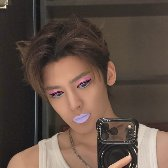
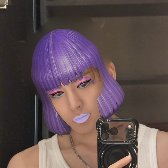
ArtPapi: jellyfish bob — fuller toward the ends, curled under, with partings
- Bell profile: from the temples the bob swells outward as it falls,
  fullest just above the ends, which curl back in under (rounder bottom).
- Splits (分缝): V-shaped partings between some clumps of the bangs and
  of the ends, open at the tips and closing a little way up, each its own
  length and width, shaded deep inside; loose strands keep out of them.
- Clump ridges continuous (no field steps between clumps: they shaded as
  dark specks). Mesh a touch coarser to keep the triangle count near before.
- The effect thumbnail now shows the wig (it was taken before it loaded).
- Dev viewer: ?views= for other angles.

Claude-Session: https://claude.ai/code/session_014Jf1Zz5VdAFUz4GXuR9DEp

Changed region(s): [[0.0893, 0.1488, 0.744, 0.8036], [0.5357, 0.4762, 0.5655, 0.506], [0.1786, 0.1786, 0.2083, 0.2083]]

diff --git a/src/lib/ar/wig.ts b/src/lib/ar/wig.ts
@@ -22,6 +22,10 @@ const smax = (a: number, b: number, k: number) => -smin(-a, -b, k)
 const ell = (x: number, y: number, z: number, rx: number, ry: number, rz: number) => (Math.hypot(x / rx, y / ry, z / rz) - 1) * Math.min(rx, ry, rz)
 const ell2 = (x: number, z: number, rx: number, rz: number) => (Math.hypot(x / rx, z / rz) - 1) * Math.min(rx, rz)
 const clamp01 = (v: number) => Math.min(1, Math.max(0, v))
+const sstep = (a: number, b: number, v: number) => {
+  const t = clamp01((v - a) / (b - a))
+  return t * t * (3 - 2 * t)
+}
 
 /** The head's centre line (front to back), rig z. */
 const HZ = -1.55
@@ -48,11 +52,12 @@ function clumpRidge(x: number, y: number, z: number) {
   // Round the head (angle), plus a slow twist down the length; clumps of
   // a few different widths.
   const a = Math.atan2(x, z - HZ)
-  let u = (a / (Math.PI * 2)) * 30 + 0.25 * Math.sin(y * 1.6 + a * 3)
+  const u = (a / (Math.PI * 2)) * 30 + 0.25 * Math.sin(y * 1.6 + a * 3)
   const i = Math.floor(u)
-  const w = 0.7 + 0.6 * hash(i)
-  u = Math.min(1, (u - i) * w + (1 - w) * 0.5)
-  return Math.sin(Math.PI * Math.min(1, Math.max(0, u)))
+  // (0 at both edges of every clump, so the field has no steps — a step
+  // between clumps of different widths shaded as dark specks — each clump
+  // rounder or sharper-crested than the next)
+  return Math.sin(Math.PI * (u - i)) ** (0.6 + 0.9 * hash(i))
 }
 /** How much a point is "bangs" (0..1), blended gently into the rest so
  *  the two clump patterns meet without a seam. */
@@ -64,11 +69,9 @@ const ridgeAt = (x: number, y: number, z: number) => {
 }
 /** The same across the bangs (they fall straight down the front). */
 function bangsRidge(x: number) {
-  let u = (x + 1) * 6
+  const u = (x + 1) * 6
   const i = Math.floor(u)
-  const w = 0.7 + 0.6 * hash(i + 91)
-  u = Math.min(1, Math.max(0, (u - i) * w + (1 - w) * 0.5))
-  return Math.sin(Math.PI * u)
+  return Math.sin(Math.PI * (u - i)) ** (0.6 + 0.9 * hash(i + 91))
 }
 
 /** The bangs' edge and the bob's hem (rig y): each clump a little longer
@@ -78,6 +81,47 @@ function bangsRidge(x: number) {
  *  just below the chin in front and to the nape at the back. */
 const bangsAt = (x: number) => 0.2 - 0.12 * Math.min(1, Math.abs(x) / 0.86) ** 2 + 0.035 * (1 - bangsRidge(x))
 const hemAt = (x: number, z: number) => -1.84 - 0.08 * clamp01(-(z - HZ) / 1.4) + 0.06 * (1 - clumpRidge(x, -1.8, z))
+// ---- Splits ------------------------------------------------------------------------
+//
+// The ends don't form one sheet: here and there, between two clumps, the
+// hair parts near its ends (分缝) — the bangs into a few pieces, the bob's
+// ends into locks — a V-shaped gap, open at the end and closing a little
+// way up, each its own length and width.
+
+/** How far inside a split a point is (> 0: inside — no hair there). */
+function splitAt(x: number, y: number, z: number) {
+  let s = -1
+  // Round the ends of the bob, between its clumps.
+  if (y < -1.15) {
+    const zc = z - HZ
+    const a = Math.atan2(x, zc)
+    const u = (a / (Math.PI * 2)) * 30 + 0.25 * Math.sin(y * 1.6 + a * 3)
+    const j = Math.round(u)
+    const jj = ((j % 30) + 30) % 30
+    if (hash(jj + 17) < 0.62) {
+      const len = 0.36 + 0.26 * hash(jj + 33)
+      const w = 0.055 + 0.04 * hash(jj + 51)
+      // (opening wide soon after it starts: the ends turn under, so the
+      // part that shows is well above the very tips)
+      const t = clamp01((hemAt(x, z) + len - y) / len) ** 0.6
+      if (t > 0) s = Math.max(s, w * t - (Math.abs(u - j) * Math.PI * 2 * Math.hypot(x, zc)) / 30)
+    }
+  }
+  // Across the bangs, between theirs.
+  if (z > -1.0 && y > -0.2 && y < 0.8) {
+    const j = Math.round((x + 1) * 6)
+    if (j >= 1 && j <= 11 && hash(j + 7) < 0.62) {
+      const len = 0.16 + 0.22 * hash(j + 61)
+      const w = 0.04 + 0.03 * hash(j + 23)
+      const t = clamp01((bangsAt(j / 6 - 1) + len - y) / len)
+      // (leaning a little, as a parting does)
+      const xb = j / 6 - 1 + (hash(j + 3) - 0.5) * 0.12 * t
+      if (t > 0) s = Math.max(s, w * t - Math.abs(x - xb))
+    }
+  }
+  return s
+}
+
 /** Half the face opening's width at height y: close round the face — the
  *  side hair hugs the cheeks and comes in over the jaw. */
 const openingHalf = (y: number) => 0.86 - 0.04 * clamp01((0.2 - y) / 0.8) - 0.15 * clamp01((-0.6 - y) / 1.0) ** 1.2
@@ -91,12 +135,15 @@ export function wigSdf(x: number, y: number, z: number) {
 function wigParts(x: number, y: number, z: number) {
   const ax = Math.abs(x)
   const zc = z - HZ
-  // The outside: a rounded crown flowing into a full bob — widest by the
-  // cheeks, then curving in toward the ends, which turn under (内扣).
+  // The outside: a rounded crown over a bell, like a jellyfish — from the
+  // temples the hair swells outward as it falls (its volume), fullest just
+  // above the ends, and there the ends curl back in under (内扣), the bottom
+  // edge rounded off like a turned-under lip.
   const dome = ell(ax, y - 0.4, zc, 1.26, 1.45, 1.55)
-  const rx = 1.22 + 0.12 * Math.exp(-(((y + 0.75) / 0.6) ** 2)) - 0.32 * clamp01((-0.95 - y) / 0.95) ** 1.6
-  const side = ell2(ax, zc, rx, rx * 1.18)
-  const body = smax(smax(side, y - 0.55, 0.3), hemAt(x, z) - y, 0.3)
+  const rx = 1.2 + 0.38 * sstep(0.1, -1.4, y) - 0.36 * clamp01((-1.48 - y) / 0.4) ** 1.7
+  // (front to back it swells a little less: the ends hang round the neck)
+  const side = ell2(ax, zc, rx, 1.42 + (rx - 1.2) * 0.85)
+  const body = smax(smax(side, y - 0.55, 0.3), hemAt(x, z) - y, 0.36)
   let outer = smin(dome, body, 0.5)
   // Grooves between clumps: deepest down the sides and back, finer over
   // the crown, where the hair lies close; across the bangs, their own.
@@ -118,7 +165,9 @@ function wigParts(x: number, y: number, z: number) {
   const half = openingHalf(y)
   // (its top corners rounded: the bangs blend into the sides)
   const opening = Math.max(smax(ax - half, y - bangsAt(x), 0.12), -(z + 0.9))
-  return { d: smax(shell, -opening, 0.025), cut: -opening - shell }
+  const d = smax(shell, -opening, 0.025)
+  const split = splitAt(x, y, z)
+  return { d: split > -0.05 ? smax(d, split, 0.012) : d, cut: -opening - shell }
 }
 
 export interface WigData {
@@ -140,7 +189,7 @@ export function computeWig(): WigData {
   // (a coarse grid is plenty: the strands are in the texture, not the
   // mesh, and fewer triangles keep live frames quick)
   // (fine enough for the clumps' grooves: several cells across each)
-  const { pos, index } = surfaceNets(wigSdf, { x: -1.75, y: -2.15, z: -3.45 }, { x: 1.75, y: 2.3, z: 0.45 }, 0.039)
+  const { pos, index } = surfaceNets(wigSdf, { x: -1.85, y: -2.15, z: -3.5 }, { x: 1.85, y: 2.3, z: 0.45 }, 0.044)
   const n = pos.length / 3
   const flow = new Float32Array(n * 3)
   const nrm = new Float32Array(n * 3)
@@ -181,7 +230,8 @@ export function computeWig(): WigData {
     // The grooves between clumps in shade, the crests catching light: what
     // makes the clumps read.
     const ridge = ridgeAt(x, y, z)
-    const groove = 0.8 + 0.2 * ridge
+    // (and deepest inside a split, between two locks)
+    const groove = (0.8 + 0.2 * ridge) * (1 - 0.5 * clamp01((splitAt(x, y, z) + 0.05) / 0.05))
     // The part shows a line of scalp.
     const partLine = 0.6 * Math.exp(-((x / 0.025) ** 2)) * clamp01((y - 1.3) / 0.3) * clamp01((z + 2.1) / 0.4) * clamp01((-0.6 - z) / 0.3)
     col.set(c.map((v, k) => v * under * wall * rim * groove * (1 - partLine) + scalp[k] * partLine), i * 3)
@@ -413,6 +463,9 @@ function wispGeometry() {
   for (let x = -0.88; x <= 0.88; x += 0.042) {
     const xx = x + (rnd() - 0.5) * 0.01
     const y = bangsAt(xx) + 0.07
+    // Strands come in with their clump: none in a split or the groove
+    // between two (they'd fill it back in).
+    if (splitAt(xx, y - 0.04, 0) > -0.035 || bangsRidge(xx) < 0.3) continue
     const p = hit(new THREE.Vector3(xx, y, 1.2), new THREE.Vector3(0, 0, -1))
     if (!p) continue
     const len = 0.08 + rnd() * 0.07
@@ -428,9 +481,10 @@ function wispGeometry() {
     const p = hit(from, dir.clone().negate())
     if (!p) continue
     if (p.z > -0.95 && Math.abs(p.x) < 0.9) continue
-    const len = 0.14 + rnd() * 0.12
-    // (curving in a touch under the bob's turned-in ends)
-    card(p, new THREE.Vector3(0, -1, 0).addScaledVector(dir, -0.3).normalize(), new THREE.Vector3(dir.z, 0, -dir.x), dir, 0.09, len)
+    if (splitAt(p.x, p.y - 0.03, p.z) > -0.035 || clumpRidge(p.x, p.y, p.z) < 0.3) continue
+    const len = 0.12 + rnd() * 0.12
+    // (curving in under the bob's turned-in ends)
+    card(p, new THREE.Vector3(0, -1, 0).addScaledVector(dir, -0.5).normalize(), new THREE.Vector3(dir.z, 0, -dir.x), dir, 0.09, len)
   }
   const g = new THREE.BufferGeometry()
   g.setAttribute('position', new THREE.Float32BufferAttribute(pos, 3))

diff --git a/src/eyewear.ts b/src/eyewear.ts
@@ -21,7 +21,9 @@ glasses.position.set(0, 0, 0)
 const pivot = new THREE.Group(); pivot.add(glasses); scene.add(pivot)
 const big = q.get('id') === 'lavender'
 const cam = big ? new THREE.OrthographicCamera(-2.4, 2.4, 2.3, -2.4, -50, 50) : new THREE.OrthographicCamera(-1.6, 1.6, 1.15, -1.15, -50, 50); cam.position.set(0, 0, 10)
-;[[0, 0], [0.75, 0.15], [big ? 2.6 : 1.45, 0.05]].forEach(([yaw, pitch], i) => {
+// (?views=yaw,pitch;yaw,pitch;… for other angles)
+const views = q.get('views')?.split(';').map((v) => v.split(',').map(Number)) ?? [[0, 0], [0.75, 0.15], [big ? 2.6 : 1.45, 0.05]]
+;views.forEach(([yaw, pitch], i) => {
   pivot.rotation.set(pitch, yaw, 0)
   renderer.setViewport(i * W, 0, W, H); renderer.setScissor(i * W, 0, W, H)
   renderer.render(scene, cam)
